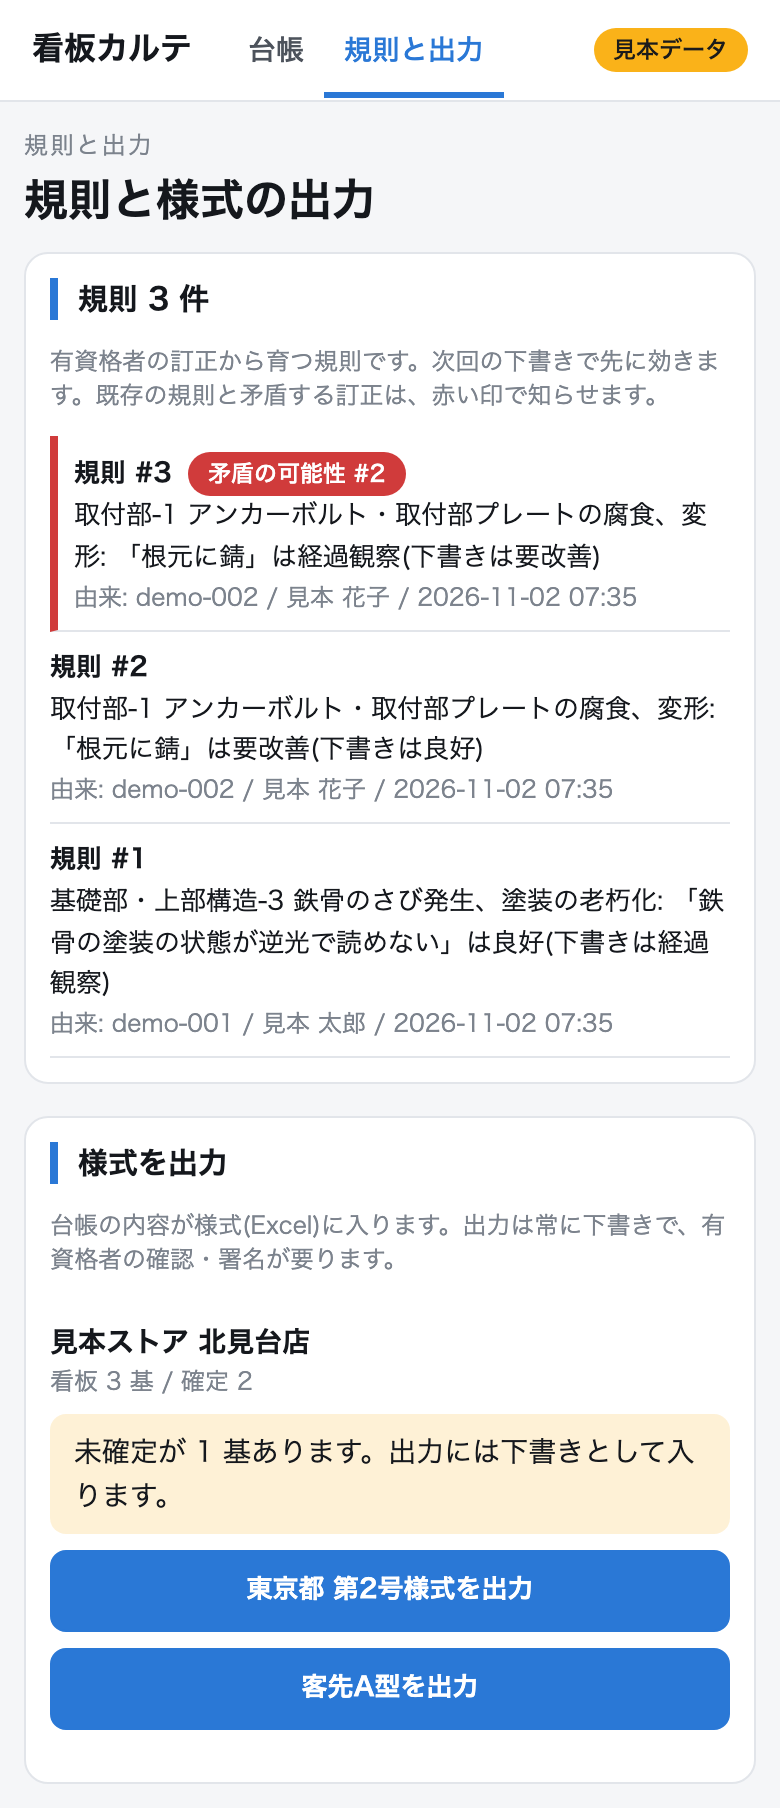
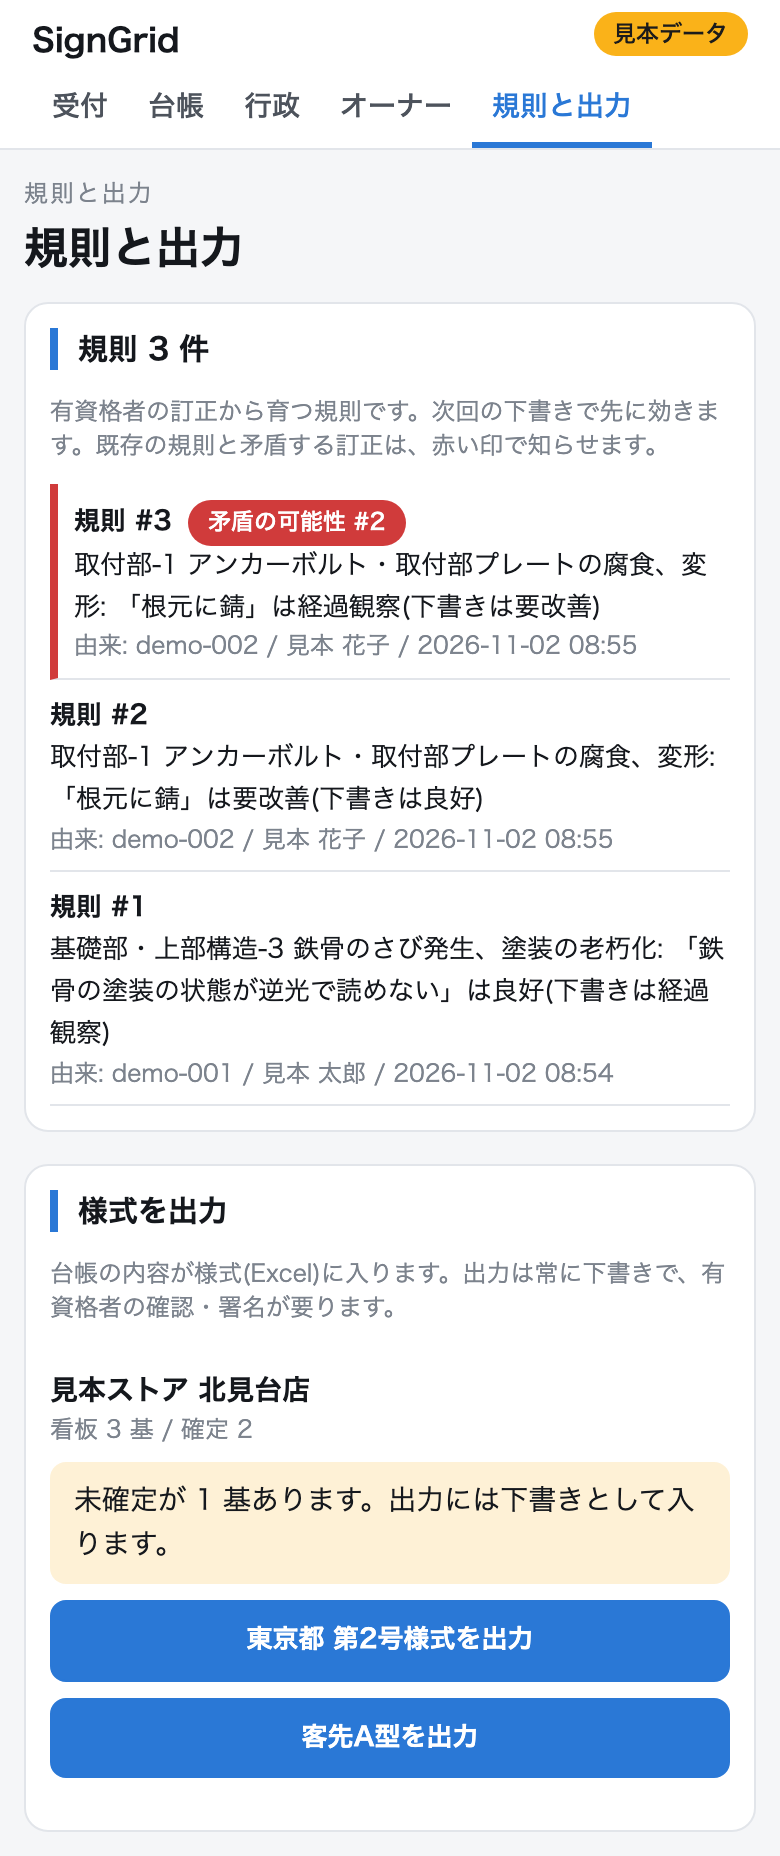
UI: screenshots for intake/gov/owner/karte-legal (PC+SP), mobile nav fix, WEB.md
web_screenshots.py に受付・行政・オーナー・法規カードを追加(見本の束と gov 見本を一時台帳に入れる)。

diff --git a/kanban_karte/web/static/gov.js b/kanban_karte/web/static/gov.js
@@ -40,7 +40,9 @@
 
   KK.views.gov = async function (_, params) {
     const head = el("div", { class: "page-head" }, el("div", {}, el("div", { class: "eyebrow", text: "職員が撮った写真の一括登録" }), el("h1", { text: "行政" })));
-    const data = await KK.api("/api/gov/batches");
+    const today = params.get("today");  // 基準日(YYYY-MM-DD。見本の撮影用。既定は今日)
+    const tq = today ? `&today=${encodeURIComponent(today)}` : "";
+    const data = await KK.api(`/api/gov/batches${today ? `?today=${encodeURIComponent(today)}` : ""}`);
     if (!data.available || !data.batches.length) {
       KK.setView(head, el("p", { class: "notice", text: "一括登録はまだありません。" }),
         el("p", { class: "sub", text: "職員が撮った写真のフォルダを取り込む(python3 -m kanban_karte.gov.cli intake)と、ここに並びます。" }));
@@ -49,9 +51,9 @@
     let id = +params.get("batch");
     if (!data.batches.some((b) => b.id === id)) id = data.batches[0].id;
     const b = data.batches.find((x) => x.id === id);
-    const cand = await KK.api(`/api/gov/candidates?batch=${id}`);
+    const cand = await KK.api(`/api/gov/candidates?batch=${id}${tq}`);
     const picker = data.batches.length > 1
-      ? el("select", { "aria-label": "一括登録", onchange: (e) => { location.hash = `#/gov?batch=${e.target.value}`; } },
+      ? el("select", { "aria-label": "一括登録", onchange: (e) => { location.hash = `#/gov?batch=${e.target.value}${tq}`; } },
         data.batches.map((x) => el("option", { value: x.id, selected: x.id === id || null, text: `登録 ${x.id}(${KK.fmtTime(x.created)})` })))
       : null;
     const stat = (n, t) => el("div", { class: "stat" }, el("b", { text: String(n) }), el("span", { text: t }));
@@ -61,7 +63,7 @@
         stat(b.gps_count, "位置あり"), stat(b.nogps_count, "位置なし")),
       countChips(data, b.by_color),
       el("section", { class: "card gov-map" }, el("h2", { text: "地図" }),
-        el("iframe", { src: `/api/gov/map.html?batch=${id}`, title: "巡回調査マップ", loading: "lazy", sandbox: "allow-scripts allow-popups allow-popups-to-escape-sandbox" }),
+        el("iframe", { src: `/api/gov/map.html?batch=${id}${tq}`, title: "巡回調査マップ", loading: "lazy", sandbox: "allow-scripts allow-popups allow-popups-to-escape-sandbox" }),
         el("p", { class: "sub" }, "地図: ", el("a", { href: "https://maps.gsi.go.jp/development/ichiran.html", target: "_blank", rel: "noopener", text: "国土地理院 地理院タイル(淡色地図)" }),
           "。赤の点は無許可の疑いで、確認が要ります(断定ではありません)。")),
       candidatesTable(cand.candidates, cand.colors));

diff --git a/kanban_karte/web/static/app.css b/kanban_karte/web/static/app.css
@@ -214,6 +214,16 @@ dialog#lightbox::backdrop{background:rgba(0,0,0,.7)}
 .intake .c-file{overflow-wrap:anywhere;min-width:12em}
 .intake .notice{margin:0}
 
+/* ナビ 5 項目: スマホ幅ではブランドの下の段に回し、折り返さない */
+.topbar nav a{white-space:nowrap}
+@media (max-width:760px){
+  .topbar{flex-wrap:wrap;row-gap:0}
+  .brand{padding:8px 0 0}
+  #sample-badge{order:2}
+  .topbar nav{order:3;flex:1 1 100%;overflow-x:auto}
+  .topbar nav a{padding:8px 10px 7px}
+}
+
 /* オーナー(スマホ幅が基本。PC では中央の細い列) */
 .owner{max-width:560px;margin:0 auto}
 .owner .step+.step,.owner .owner-result{margin-top:12px}
@@ -232,6 +242,7 @@ dialog#lightbox::backdrop{background:rgba(0,0,0,.7)}
 .three{list-style:none;margin:0;padding:0}
 .three li{display:grid;grid-template-columns:3em minmax(0,1fr);gap:8px;align-items:start;padding:8px 0;border-bottom:1px solid var(--line);font-size:14px}
 .three li:last-child{border-bottom:0}
+.three .chip{justify-self:start}
 .three .k{color:var(--muted);font-size:12.5px;padding-top:2px}
 .btn.ask{margin-top:12px}
 

diff --git a/kanban_karte/web/static/intake.js b/kanban_karte/web/static/intake.js
@@ -30,7 +30,7 @@
       cell("", "c-kind", el("span", { class: `chip src ${b.source === "LINE" ? "line" : "pc"}`, text: b.source })),
       cell("ファイル", "c-file", el("div", { text: b.file }), el("div", { class: "sub", text: `束 ${b.id} / ${b.pages} ページ` })),
       cell("状態", "c-state", el("span", { class: `chip status ${b.status === "signs_drafted" ? "confirmed" : b.status}`, text: BUNDLE_STATUS[b.status] || b.status })),
-      cell("看板", "c-count", `看板 ${b.sign_count} 基 / 下書き ${b.draft_count}`),
+      cell("", "c-count", `看板 ${b.sign_count} 基 / 下書き ${b.draft_count}`),
       cell("エラー", "c-err", b.error ? el("span", { class: "notice err", text: b.error }) : el("span", { class: "muted", text: "—" })),
       cell("", "c-go", b.site_id ? el("a", { href: `#/?site=${encodeURIComponent(b.site_id)}`, text: "台帳(現場)へ →" }) : el("span", { class: "muted", text: "現場は未定" })),
       cell("", "c-act", action));

diff --git a/tools/web_screenshots.py b/tools/web_screenshots.py
@@ -2,7 +2,8 @@
 
   python3 tools/web_screenshots.py [--out docs/img] [--only ledger,karte,...]
 
-撮る画面: ledger(台帳)、karte(カルテ)、karte-edit(黄色のマスを直した後)、karte-confirmed(確定後)、rules(規則と出力)。
+撮る画面: ledger(台帳)、karte(カルテ)、karte-legal(カルテの法規カード)、karte-edit(黄色のマスを直した後)、karte-confirmed(確定後)、
+rules(規則と出力)、intake(受付)、gov(行政。gov.make_sample の見本の束を入れる)、owner(オーナー。見本の寸法で「調べる」まで)。
 karte-edit 以降は台帳を書き換えるので、一時の台帳でだけ行う(見本の JSON は変わらない)。
 """
 from __future__ import annotations
@@ -15,6 +16,8 @@ from pathlib import Path
 
 sys.path.insert(0, str(Path(__file__).resolve().parents[1]))
 
+from kanban_karte.gov import make_sample as gov_sample  # noqa: E402
+from kanban_karte.gov.batch_intake import intake as gov_intake  # noqa: E402
 from kanban_karte.web.server import SAMPLE_JSON, App, make_server, seed_sample  # noqa: E402
 
 VIEWPORTS = {"pc": {"width": 1280, "height": 900}, "sp": {"width": 390, "height": 844}}
@@ -31,6 +34,22 @@ def shoot(page, base: str, out: Path, tag: str, hash_: str, name: str, full=True
     print(path)
 
 
+def seed_extra(db: Path, tmp: Path) -> None:
+    """受付と行政の見本: 束を2本(PC の PDF と LINE の写真)、gov の見本の束(写真10枚・台帳5基)。"""
+    from kanban_karte.ledger import Ledger
+
+    gov_sample.build(tmp / "gov")
+    with Ledger(db) as lg:
+        a = lg.add_bundle("/scan/見本_点検票.pdf", "sample-sha-pc", 4)
+        lg.set_bundle(a, status="classified", kind_counts={"点検票": 3, "写真": 1}, site_id="demo-site-1")
+        b = lg.add_bundle("line://Usample/2026-11-02/s1", "sample-sha-line", 6)
+        lg.set_bundle(b, status="pages_registered", site_id="demo-site-1")
+        c = lg.add_bundle("/scan/見本_現地写真.pdf", "sample-sha-pc2", 2)
+        lg.set_bundle(c, status="signs_drafted", site_id="demo-site-1")
+        lg.import_json(tmp / "gov" / "ledger_gov.json")
+        gov_intake(lg.conn, tmp / "gov" / "photos")
+
+
 def run(page, base, out, tag, only):
     def want(k):
         return only is None or k in only
@@ -39,6 +58,34 @@ def run(page, base, out, tag, only):
         shoot(page, base, out, tag, "/", "ledger", wait="main .ledger tbody tr")
     if want("karte"):
         shoot(page, base, out, tag, f"/sign/{SIGN}", "karte", wait="main .karte")
+    if want("karte-legal"):
+        page.goto(f"{base}/#/sign/{SIGN}")
+        page.wait_for_selector("main .legal-card .cites li")
+        page.wait_for_timeout(300)
+        page.add_style_tag(content=".topbar{position:static !important}")  # 要素の撮影に sticky のヘッダーが写り込まないように
+        path = out / f"karte-legal-{tag}.png"
+        page.locator(".legal-card").screenshot(path=str(path))
+        print(path)
+    if want("intake"):
+        shoot(page, base, out, tag, "/intake", "intake", wait="main .intake tbody tr")
+    if want("gov"):
+        shoot(page, base, out, tag, "/gov?today=2026-11-02", "gov", wait="main .gov-table tbody tr")
+        page.wait_for_timeout(2500)  # 地図(Leaflet・地理院タイル)の読み込み待ち
+        page.evaluate("window.scrollTo(0, 0)")
+        page.screenshot(path=str(out / f"gov-{tag}.png"), full_page=True)
+    if want("owner"):
+        page.goto(f"{base}/#/owner")
+        page.wait_for_selector("main .owner")
+        page.set_input_files("#owner-photo", str(SAMPLE_JSON.parent / "photos" / "plain_a.png"))
+        page.fill("#owner-address", "東京都豊島区見本町1-2-3")
+        page.fill("#owner-w", "1.95")
+        page.fill("#owner-h", "0.6")
+        page.click("button:has-text('調べる')")
+        page.wait_for_selector(".owner-result .cites li")
+        page.wait_for_timeout(600)
+        page.evaluate("window.scrollTo(0, 0)")
+        page.screenshot(path=str(out / f"owner-{tag}.png"), full_page=True)
+        print(out / f"owner-{tag}.png")
     if want("karte-edit") or want("karte-confirmed"):
         page.goto(f"{base}/#/sign/{SIGN}")
         page.wait_for_selector("main .karte")
@@ -84,6 +131,7 @@ def main(argv=None) -> int:
             with tempfile.TemporaryDirectory() as td:  # 画面幅ごとに新しい台帳(確定が次の撮影に残らないように)
                 db = Path(td) / "l.sqlite"
                 seed_sample(db)
+                seed_extra(db, Path(td))
                 srv = make_server(App(db, SAMPLE_JSON.parent, sample=True), "127.0.0.1", 0)
                 base = f"http://127.0.0.1:{srv.server_address[1]}"
                 threading.Thread(target=srv.serve_forever, daemon=True).start()
